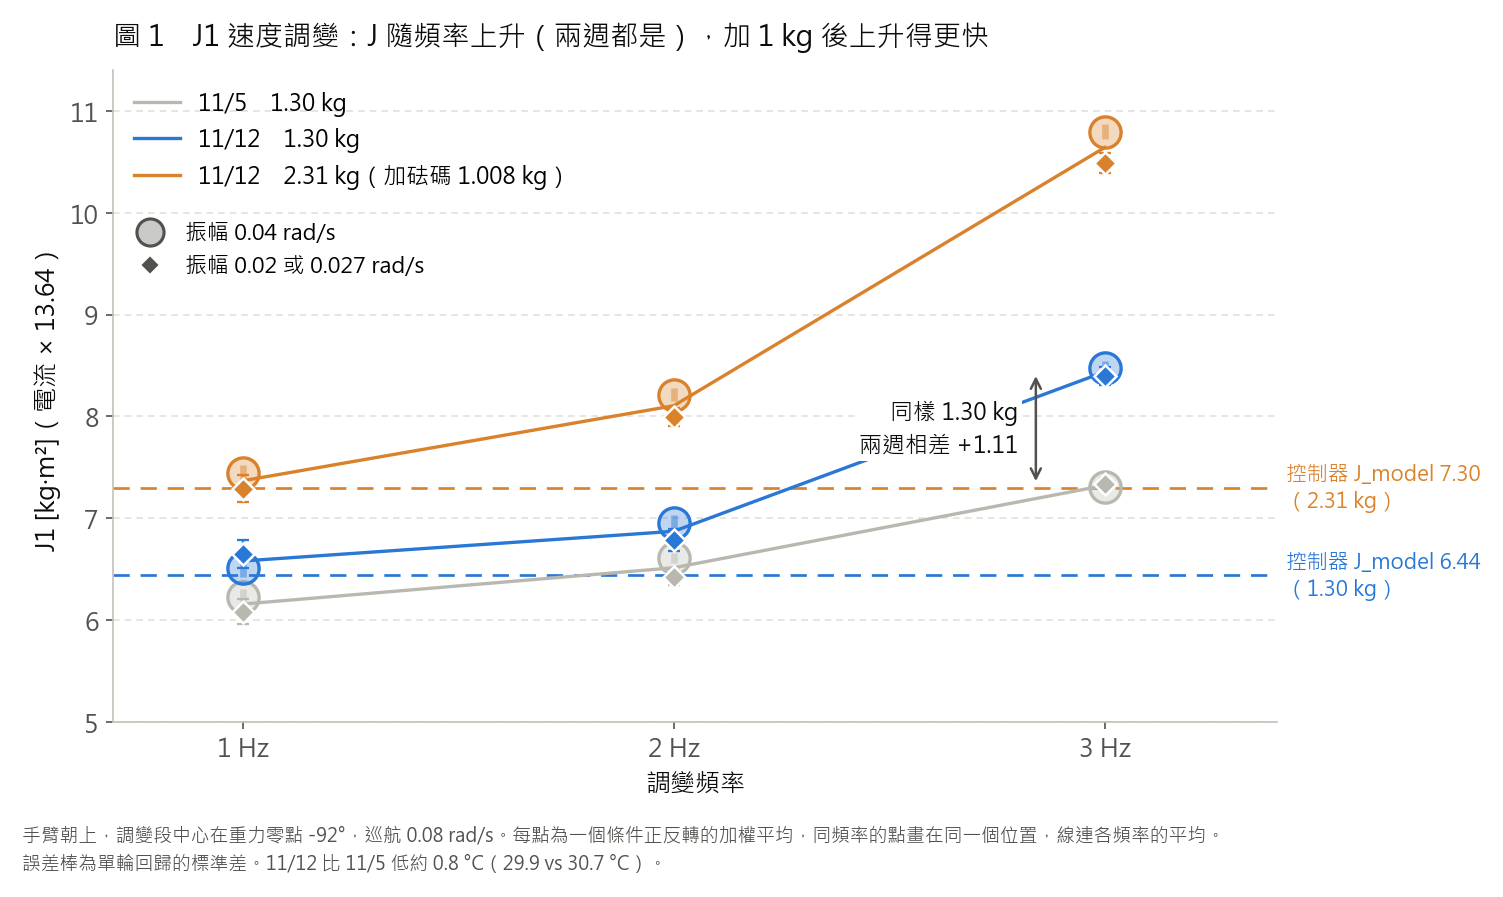
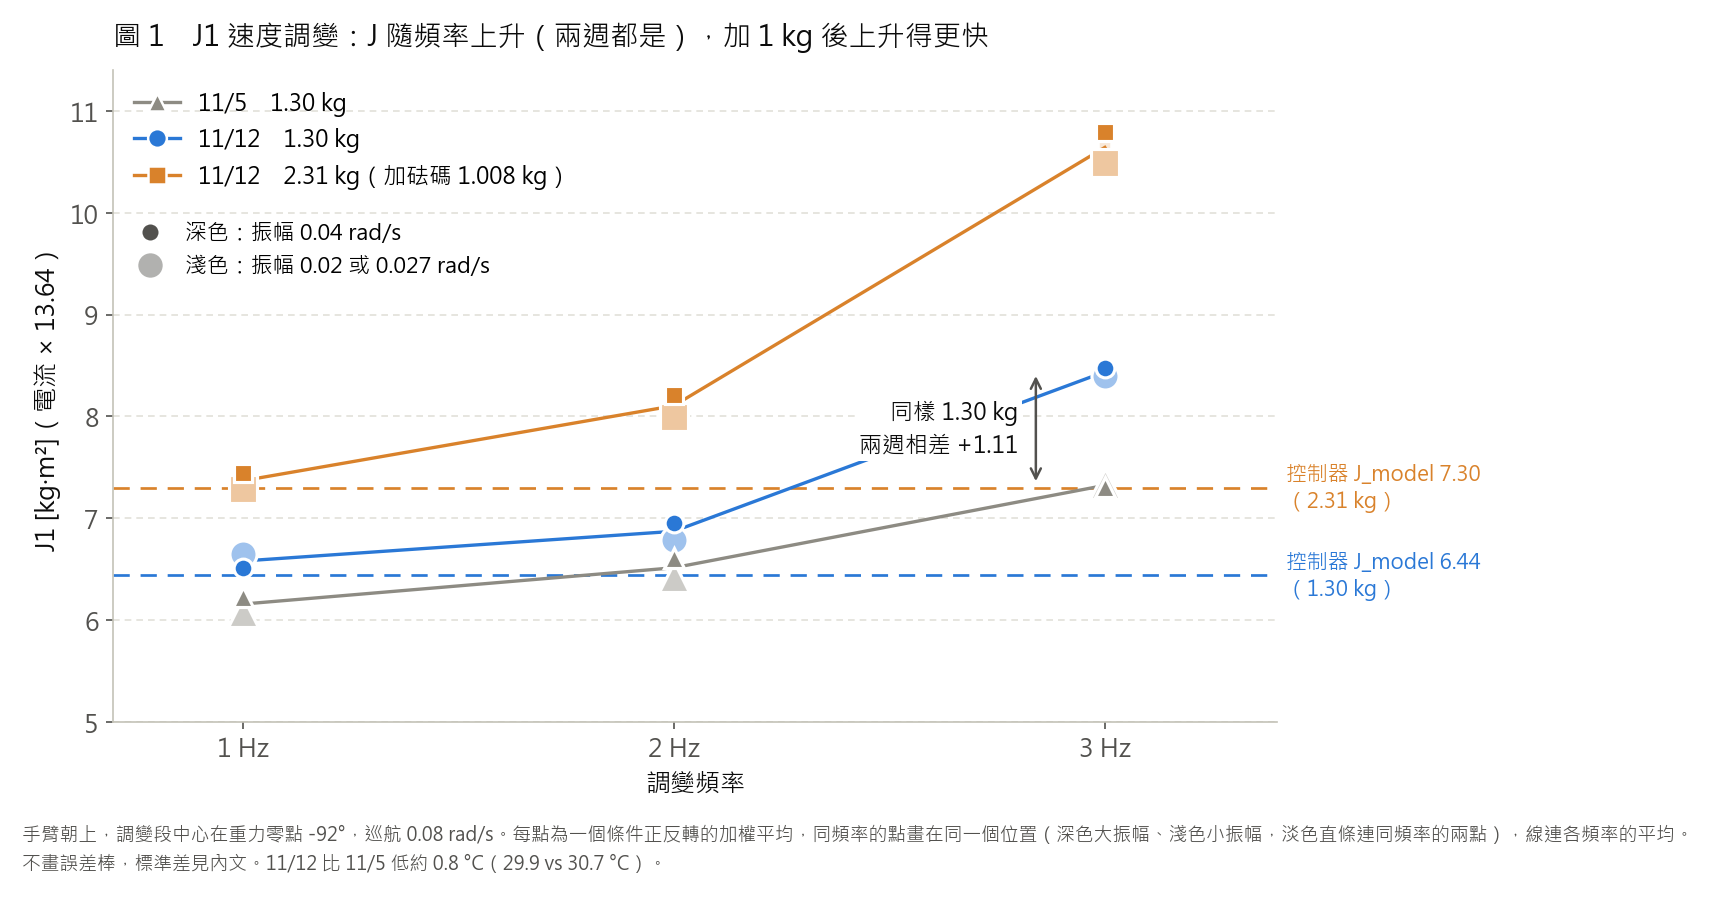
11/18 report figs 1-2: dark/light shade per amplitude, no error bars
Light (small-amplitude) marker is drawn larger underneath so coinciding
points show as a dark dot with a light ring instead of hiding each other.

diff --git a/analysis/1112/report_figs_1118.py b/analysis/1112/report_figs_1118.py
@@ -50,20 +50,30 @@ from matplotlib.colors import to_rgba
 from matplotlib.lines import Line2D
 
 
-def pt(ax, x, y, s, col, big):
-    """同頻率的點畫在同一個 x，靠樣式分開：大振幅＝半透明大圓＋粗誤差棒（底層），
-    小振幅＝實心小菱形、白邊＋細誤差棒（上層）。疊在一起時兩個都看得到。"""
-    if big:
-        ax.errorbar(x, y, yerr=s, fmt="none", ecolor=to_rgba(col, 0.45), elinewidth=3.2, capsize=0, zorder=3)
-        ax.plot(x, y, "o", ms=15, mfc=to_rgba(col, 0.30), mec=col, mew=1.6, zorder=4)
-    else:
-        ax.errorbar(x, y, yerr=s, fmt="none", ecolor=col, elinewidth=1.1, capsize=3, capthick=1.1, zorder=5)
-        ax.plot(x, y, "D", ms=7.5, mfc=col, mec="white", mew=1.2, zorder=6)
+def light(col, t=0.55):
+    """同色系的淺色（和白色混合 t）。"""
+    r, g, b, _ = to_rgba(col)
+    return (r + (1 - r) * t, g + (1 - g) * t, b + (1 - b) * t, 1.0)
+
+
+def pt(ax, x, y, s, col, big, mk="o"):
+    """同頻率的點畫在同一個 x，靠深淺分開：大振幅＝深色，小振幅＝同色系淺色。
+    白邊讓疊在一起的點仍分得出輪廓；形狀分日期/負載。"""
+    c = col if big else light(col)
+    # 不畫誤差棒（11/17 使用者要求）；s 不使用，標準差寫在內文
+    # 淺色（小振幅）畫大一號墊在下面：兩點重合時看起來是深色點外圍一圈淺色，不會被蓋掉
+    ms = (9 if big else 13) + (1 if mk == "^" else 0)
+    ax.plot(x, y, mk, ms=ms, mfc=c, mec="white", mew=1.5, zorder=7 if big else 6)
+
+
+def pair(ax, x, y1, y2, col):
+    """同一頻率兩種振幅之間的淡色連線，看得出兩點差多少。"""
+    ax.plot([x, x], [y1, y2], color=col, lw=5, alpha=0.18, solid_capstyle="round", zorder=2)
 
 
 def amp_legend(ax, big_lab, small_lab, loc, anchor=None):
-    h = [Line2D([], [], ls="none", marker="o", ms=13, mfc=to_rgba(INK2, 0.30), mec=INK2, mew=1.5),
-         Line2D([], [], ls="none", marker="D", ms=7, mfc=INK2, mec="white", mew=1.0)]
+    h = [Line2D([], [], ls="none", marker="o", ms=9, mfc=INK2, mec="white", mew=1.3),
+         Line2D([], [], ls="none", marker="o", ms=13, mfc=light(INK2), mec="white", mew=1.3)]
     lg = ax.legend(h, [big_lab, small_lab], loc=loc, bbox_to_anchor=anchor, frameon=False, fontsize=10.5,
                    handletextpad=0.6, borderaxespad=0.3)
     return lg
@@ -78,16 +88,21 @@ def cond_mean(run, ci):
 
 # ---------------- 圖 1：J1 速度調變，J 對頻率 ----------------
 fig, ax = plt.subplots(figsize=(10, 5.9))
-runs = (("1105_p130", GRAY, "11/5　1.30 kg", "o"), ("1112_p130", BLUE, "11/12　1.30 kg", "o"),
+runs = (("1105_p130", MUTED, "11/5　1.30 kg", "^"), ("1112_p130", BLUE, "11/12　1.30 kg", "o"),
         ("1112_p231", ORANGE, "11/12　2.31 kg（加砝碼 1.008 kg）", "s"))
+run_h = []
 fmean = {}
 for k, (run, col, lab, mk) in enumerate(runs):
     pts = [cond_mean(run, ci) for ci in range(6)]
     for J, s, f, A in pts:
-        pt(ax, f, J, s, col, A >= 0.04)
+        pt(ax, f, J, s, col, A >= 0.04, mk)
+    for ff in (1, 2, 3):
+        yy = [J for J, s, f, A in pts if abs(f - ff) < 0.2]
+        pair(ax, ff, min(yy), max(yy), col)
     fm = [np.mean([J for J, s, f, A in pts if abs(f - ff) < 0.2]) for ff in (1, 2, 3)]
     fmean[run] = fm
-    ax.plot([1, 2, 3], fm, color=col, lw=1.6, zorder=3, label=lab)
+    ax.plot([1, 2, 3], fm, color=col, lw=1.6, zorder=3)
+    run_h.append(Line2D([], [], color=col, lw=1.6, marker=mk, ms=9, mfc=col, mec="white", mew=1.2))
 jm130 = np.mean([J1["velmod_1112_p130_pos"]["per"][str(c)]["Jm"] for c in range(6)])
 jm231 = np.mean([J1["velmod_1112_p231_pos"]["per"][str(c)]["Jm"] for c in range(6)])
 for jm, col, txt in ((jm130, BLUE, "1.30 kg"), (jm231, ORANGE, "2.31 kg")):
@@ -98,9 +113,9 @@ g0, g1 = fmean["1105_p130"][2], fmean["1112_p130"][2]
 ax.annotate("", xy=(2.84, g1), xytext=(2.84, g0), arrowprops=dict(arrowstyle="<->", color=INK2, lw=1.2))
 ax.text(2.80, 0.5 * (g0 + g1), f"同樣 1.30 kg\n兩週相差 {g1 - g0:+.2f}", ha="right", va="center", fontsize=11,
         color=INK, linespacing=1.4, bbox=dict(boxstyle="square,pad=0.15", fc="white", ec="none"), zorder=6)
-lg = ax.legend(loc="upper left", frameon=False, fontsize=11)
+lg = ax.legend(run_h, [r[2] for r in runs], loc="upper left", frameon=False, fontsize=11)
 ax.add_artist(lg)
-amp_legend(ax, "振幅 0.04 rad/s", "振幅 0.02 或 0.027 rad/s", "upper left", (0.0, 0.79))
+amp_legend(ax, "深色：振幅 0.04 rad/s", "淺色：振幅 0.02 或 0.027 rad/s", "upper left", (0.0, 0.79))
 ax.set_xticks([1, 2, 3]); ax.set_xticklabels(["1 Hz", "2 Hz", "3 Hz"])
 ax.set_xlim(0.7, 3.4); ax.set_ylim(5.0, 11.4)
 ax.set_xlabel("調變頻率"); ax.set_ylabel("J1 [kg·m²]（電流 × 13.64）")
@@ -108,7 +123,7 @@ style(ax)
 ax.set_title("圖 1　J1 速度調變：J 隨頻率上升（兩週都是），加 1 kg 後上升得更快", loc="left", fontsize=13.5, pad=12,
              color=INK)
 fig.text(0.01, 0.005, "手臂朝上，調變段中心在重力零點 -92°，巡航 0.08 rad/s。每點為一個條件正反轉的加權平均"
-         "，同頻率的點畫在同一個位置，線連各頻率的平均。\n誤差棒為單輪回歸的標準差。"
+         "，同頻率的點畫在同一個位置（深色大振幅、淺色小振幅，淡色直條連同頻率的兩點），線連各頻率的平均。\n不畫誤差棒，標準差見內文。"
          "11/12 比 11/5 低約 0.8 °C（29.9 vs 30.7 °C）。", ha="left", va="bottom", fontsize=9, color=INK2,
          linespacing=1.5)
 fig.tight_layout(rect=(0, 0.06, 1, 1))
@@ -126,9 +141,13 @@ fig, axs = plt.subplots(1, 2, figsize=(12.5, 5.4))
 # J1
 ax = axs[0]
 dj1 = J1B["dJ"]
+byf = {}
 for lab, (m, s, jm) in dj1.items():
     f = float(lab.split()[0]); A = float(lab.split("×")[1])
     pt(ax, f, m, s, BLUE, A >= 0.04)
+    byf.setdefault(f, []).append(m)
+for f, yy in byf.items():
+    pair(ax, f, min(yy), max(yy), BLUE)
 ff = np.linspace(0.5, 3.3, 60)
 ax.plot(ff, [dj_spring(x) for x in ff], color=INK, lw=1.4, ls=(0, (2, 2)), zorder=3)
 ax.text(2.0, dj_spring(2.0) + 0.32, "單一彈簧模型\n（固有頻率約 5.6 Hz）", ha="right", va="bottom", fontsize=10,
@@ -140,14 +159,18 @@ ax.set_title("J1（肩）", loc="left", fontsize=12.5, color=INK)
 ax.set_xlim(0.5, 3.4); ax.set_ylim(0, 2.8)
 ax.set_xticks([1, 2, 3]); ax.set_xticklabels(["1 Hz", "2 Hz", "3 Hz"])
 ax.set_ylabel("ΔJ = J(2.31 kg) - J(1.30 kg) [kg·m²]")
-amp_legend(ax, "大振幅", "小振幅", "upper left")
+amp_legend(ax, "深色：大振幅", "淺色：小振幅", "upper left")
 style(ax)
 # J2
 ax = axs[1]
+byf2 = {}
 for r in J2C["rows"]:
     w = [1 / s ** 2 for s in r["sdJ"]]
     m = sum(d * wi for d, wi in zip(r["dJ"], w)) / sum(w); s = 1 / math.sqrt(sum(w))
     pt(ax, r["f"], m, s, GREEN, r["A"] >= 0.05)
+    byf2.setdefault(r["f"], []).append(m)
+for f, yy in byf2.items():
+    pair(ax, f, min(yy), max(yy), GREEN)
 jmd2 = float(np.mean([r["dJm"] for r in J2C["rows"]]))
 ax.axhline(jmd2, color=INK, lw=1.6, ls=(0, (6, 4)), zorder=2)
 ax.text(3.35, jmd2 - 0.025, f"控制器 ΔJ_model {jmd2:.2f}", ha="right", va="top", fontsize=10.5, color=INK)
@@ -157,7 +180,7 @@ ax.set_xticks([1, 2, 3]); ax.set_xticklabels(["1 Hz", "2 Hz", "3 Hz"])
 style(ax)
 fig.suptitle("圖 2　同一個 1 kg 砝碼：頻率越高，量到的 ΔJ 越大（J1 只有 1 Hz 接近控制器的值）", x=0.01, ha="left",
              fontsize=13.5, color=INK)
-fig.text(0.01, 0.005, "手臂朝上，同一天、同一方向相減後兩個方向加權平均，同頻率的點畫在同一個位置。電流 × 13.64。"
+fig.text(0.01, 0.005, "手臂朝上，同一天、同一方向相減後兩個方向加權平均，同頻率的點畫在同一個位置（深色大振幅、淺色小振幅）。不畫誤差棒。電流 × 13.64。"
          "控制器 ΔJ_model：target_moment 對 target_qdd 回歸，2.31 kg 減 1.30 kg。\n"
          "J1 的模型：J_量 = s·J / (1 - J·ω²/k)，以 1.30、2.31 kg 共 12 個條件擬合（s = 1.095、J = 5.55、k = 6898 N·m/rad；"
          "χ² = 42，自由度 9）。", ha="left", va="bottom", fontsize=9, color=INK2, linespacing=1.5)
